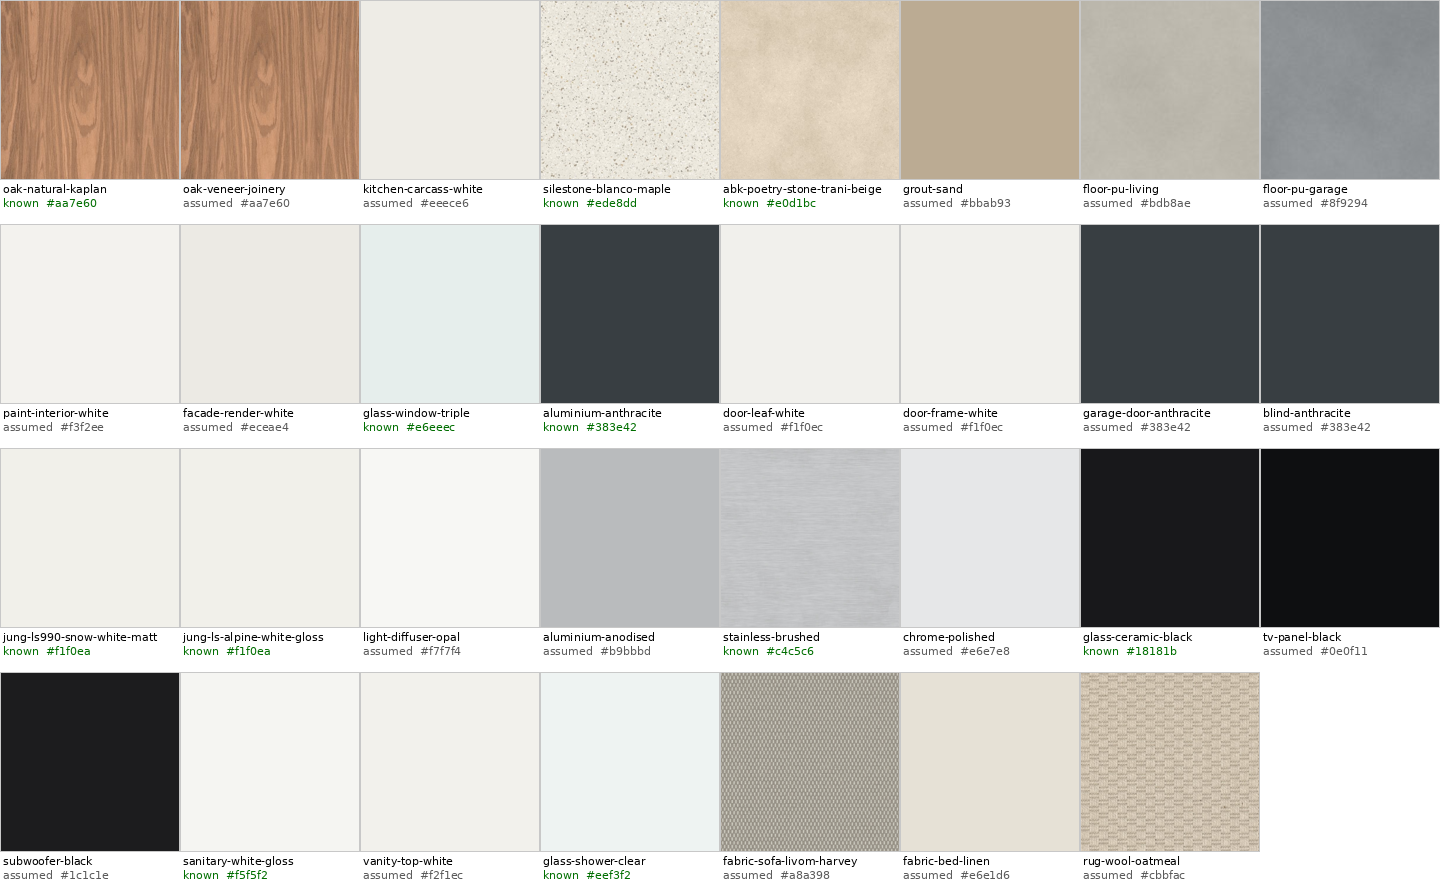
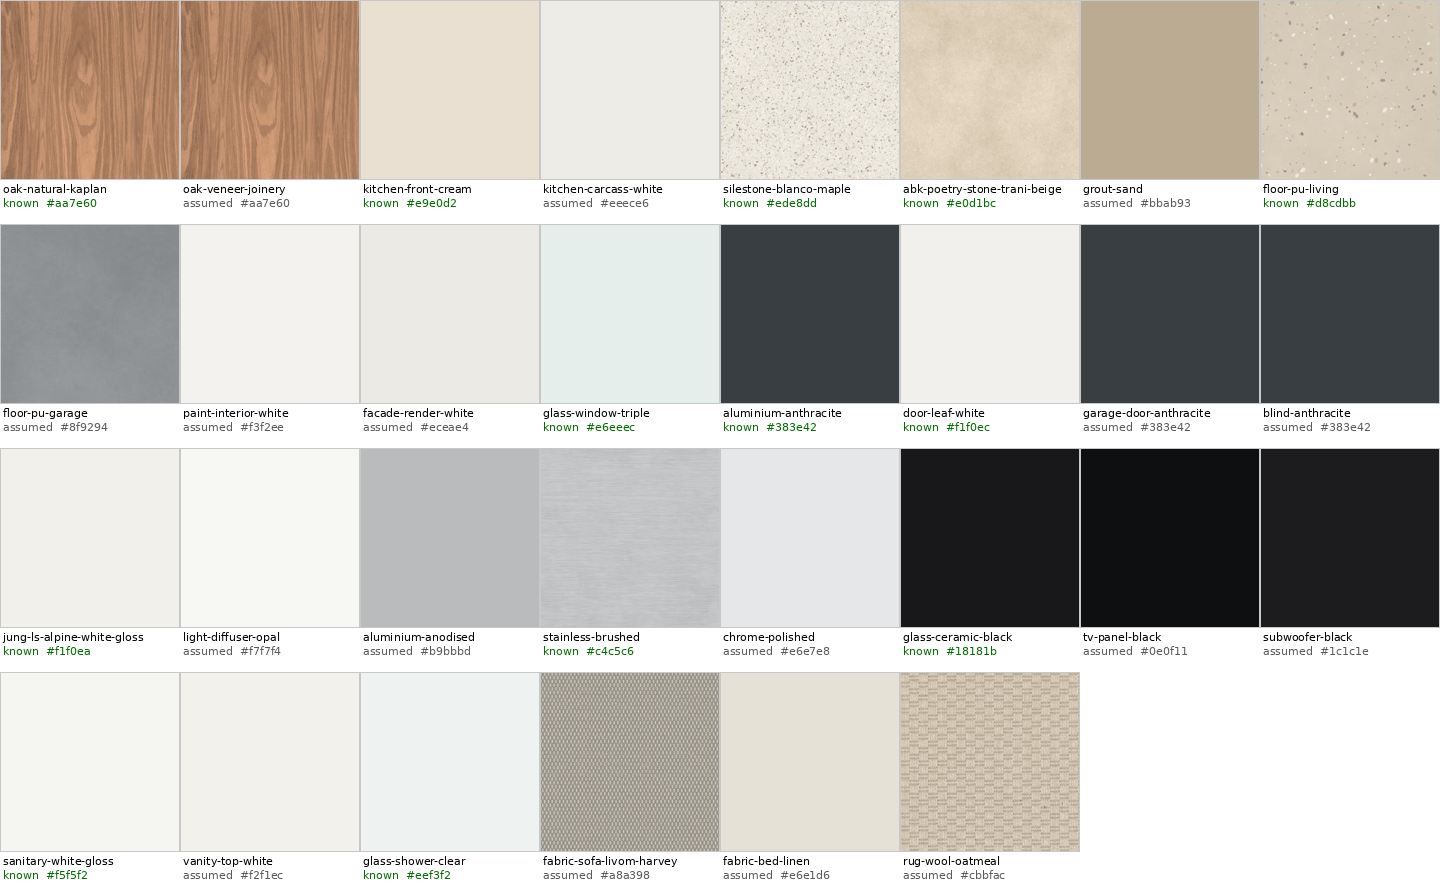
Materials: apply Petr's answers (fronts, PU floor, Silestone, frames, doors, Jung)
Petr in Cody's chat, 2026-11-12:
"kitchen front are some sort of cream color (white-ish)
pu floor is light beige with plastic chips (not sure what color chips yet, your choice)
cheaper basic silestone (idk which one that is), or just choose one
window frames all antracite aluminium
yes doors are white and frames are "invisible" (flush and plastered over). The hinged doors are "reverse" door (so the sit flush with hallway wall but open inward into rooms
sorry, gloss white jung electrical fixture, the matt white note is obsolete (document it as such)"

- kitchen-front-cream (new, known; RAL 9001 shade assumed) replaces the
  oak-veneer assumption on kitchen fronts; oak-veneer-joinery keeps the vanity.
- floor-pu-living: light beige with sparse colour chips (known; chip colours
  ours), new procedural texture, 1 m repeat. Garage stays a grey assumption.
- silestone-blanco-maple: standard polished finish, Petr's call.
- aluminium-anthracite: all window frames inside and out.
- door-leaf-white known; door-frame-white retired (flush, plastered frames).
  Reverse-mounted hinged doors recorded as open: in OpeningsSpec.md, no
  geometry change here.
- jung-ls-alpine-white-gloss covers switches, sockets, sensors;
  jung-ls990-snow-white-matt retired; PlanNotes.md marks the WWM rule obsolete.
- Swatch sheet now built by scripts/build_material_textures.py.

Requested-by: Cody

diff --git a/scripts/build_material_textures.py b/scripts/build_material_textures.py
@@ -235,6 +235,28 @@ def pu_floor(mid: str, hx: str, seed: int) -> None:
     license_txt(mid, CC0_PROC + "\nPoured polyurethane floor, colour assumed. One repeat = 2.0 m.")
 
 
+def pu_chips() -> None:
+    """House floor: light beige PU with sparse decorative flakes (Petr, 2026-11-12)."""
+    mid, n = "floor-pu-living", 1024  # one repeat = 1.0 m, 1 mm per pixel
+    clouds = fbm(n, 61, 2.8, lo=1)
+    fine = fbm(n, 62, 0.4, lo=60)
+    img = hex_rgb("#d8cdbb") + clouds[..., None] * 3.0 + fine[..., None] * 1.0
+    # Flat irregular flakes, ~2-8 mm, sparse; colours are our choice (Petr left it open).
+    chips = [
+        ("#c4b297", 1500, 1.0, 4.0, 63),
+        ("#9a948b", 700, 1.0, 3.6, 64),
+        ("#f3efe6", 1000, 1.0, 4.0, 65),
+        ("#8b7d6b", 250, 1.0, 3.0, 66),
+    ]
+    for hx, count, rmin, rmax, seed in chips:
+        m, _ = specks(n, seed, count, rmin, rmax, elong=1.7)
+        img = img * (1 - m[..., None] * 0.85) + hex_rgb(hx) * (m[..., None] * 0.85)
+    save(mid, "color", img, n)
+    rough = 0.35 * 255 + clouds * 5 + fine * 2  # satin clear coat over the chips
+    save(mid, "roughness", gray3(rough), n, gray=True)
+    license_txt(mid, CC0_PROC + "\nLight beige poured PU with colour chips; chip colours our choice. One repeat = 1.0 m.")
+
+
 def plaster() -> None:
     a = "Plaster001"
     save("paint-interior-white", "normal", flatten_normal(ambientcg(a, "NormalGL"), 0.35), 1024)
@@ -282,7 +304,7 @@ SETS = {
     "oak-natural-kaplan": oak,
     "silestone-blanco-maple": silestone,
     "abk-poetry-stone-trani-beige": trani,
-    "floor-pu-living": lambda: pu_floor("floor-pu-living", "#bdb8ae", 41),
+    "floor-pu-living": pu_chips,
     "floor-pu-garage": lambda: pu_floor("floor-pu-garage", "#8f9294", 51),
     "paint-interior-white": plaster,
     "fabric-sofa-livom-harvey": fabric,
@@ -291,11 +313,45 @@ SETS = {
 }
 
 
+def swatches() -> None:
+    """docs/previews/materials/swatches.png: a 0.3 m crop of each colour map, or base_color."""
+    import yaml
+    from PIL import ImageDraw, ImageFont
+
+    cat = yaml.safe_load((ROOT / "inputs" / "materials" / "catalogue.yaml").read_text(encoding="utf-8"))
+    s, cols, th = 180, 8, 44
+    rows = (len(cat) + cols - 1) // cols
+    img = Image.new("RGB", (cols * s, rows * (s + th)), "white")
+    d = ImageDraw.Draw(img)
+    try:
+        font = ImageFont.truetype("/usr/share/fonts/truetype/dejavu/DejaVuSans.ttf", 11)
+    except OSError:
+        font = ImageFont.load_default()
+    for k, m in enumerate(cat):
+        x, y = (k % cols) * s, (k // cols) * (s + th)
+        c = (m.get("maps") or {}).get("color")
+        if c:
+            t = Image.open(ROOT / c).convert("RGB")
+            cw = int(t.size[0] * min(1, 0.3 / m["tile_size_m"][0]))
+            t = t.crop((0, 0, cw, cw)).resize((s, s))
+        else:
+            t = Image.new("RGB", (s, s), tuple(int(v) for v in hex_rgb(m["base_color"])))
+        img.paste(t, (x, y))
+        d.rectangle([x, y, x + s - 1, y + s - 1], outline=(200, 200, 200))
+        d.text((x + 3, y + s + 2), m["id"], fill="black", font=font)
+        colour = (0, 110, 0) if m["status"] == "known" else (90, 90, 90)
+        d.text((x + 3, y + s + 16), f"{m['status']}  {m['base_color']}", fill=colour, font=font)
+    out = ROOT / "docs" / "previews" / "materials"
+    out.mkdir(parents=True, exist_ok=True)
+    img.save(out / "swatches.png", optimize=True)
+
+
 def main(argv: list[str]) -> None:
     names = argv or list(SETS)
     for name in names:
         print("building", name)
         SETS[name]()
+    swatches()
 
 
 if __name__ == "__main__":

diff --git a/tests/test_materials_catalogue.py b/tests/test_materials_catalogue.py
@@ -9,7 +9,7 @@ def test_catalogue_is_valid():
 
 def test_specific_selectors_win():
     cat = load_catalogue()
-    assert resolve(cat, "cabinet", "SF-I600a-FRONT") == ["oak-veneer-joinery"]
+    assert resolve(cat, "cabinet", "SF-I600a-FRONT") == ["kitchen-front-cream"]
     assert resolve(cat, "cabinet", "KR-ISL-LEG-SF-E700-S-F") == ["stainless-brushed"]
     assert resolve(cat, "cabinet", "SF-DN-BODY") == ["oak-natural-kaplan"]
     assert resolve(cat, "cabinet", "SF-I600a-BOTTOM") == ["kitchen-carcass-white"]

diff --git a/docs/materials/README.md b/docs/materials/README.md
@@ -8,7 +8,7 @@ The realistic mode does not reuse the solid-mode colours. Solid colours are diag
 
 - **Materials are keyed by id, never baked into geometry.** The models keep emitting meshes named `<label>__<id>__` (e.g. `cabinet__KR-ISL-END-N__`) or just `<label>`. Each catalogue entry's `applies_to.selectors` says which meshes it covers: `{label}`, `{label, ids}` or `{label, id_pattern}` (a regex searched in the id). The most specific selector wins (ids, then pattern, then label). Every label the three models emit has exactly one label-only selector, so no mesh is left without a material; `python -m blueprints.materials` checks that against the committed GLBs.
 - **Real 3D fixtures later.** A glTF for a fixture (a tap, a light, a chair) names its material slots with catalogue ids (`chrome-polished`, `oak-natural-kaplan`, …). The viewer swaps each slot for the catalogue material with that id, so the fixture picks up the same finish and a later finish change is one catalogue edit. A slot with an unknown name keeps the glTF's own material. Nothing here assumes boxes.
-- **Entries with `pending`** describe surfaces the models do not build yet (room floors, ceilings, door frames, window frames, blinds, facade). They are in the catalogue now so the finish decision is written down once.
+- **Entries with `pending`** describe surfaces the models do not build yet (room floors, ceilings, window frames, blinds, facade). They are in the catalogue now so the finish decision is written down once.
 - **Fields.** The contract is the comment at the top of `catalogue.yaml`. `base_color` is the albedo whenever there is no colour map (several sets ship only normal/roughness so plain painted surfaces stay even). `tile_size_m` is the real size of one texture repeat. `rotation_deg` is given where direction matters (oak grain, brushed steel): at 0 the grain runs along texture V.
 
 ## Textures
@@ -22,7 +22,8 @@ They are either CC0 scans (Poly Haven, ambientCG) re-tinted to the product's mea
 | `oak-natural-kaplan` | Poly Haven *Oak Veneer 01*, tinted to Kaplan's D 02 swatch | 1.83 m |
 | `silestone-blanco-maple` | procedural speckled quartz | 1.0 m |
 | `abk-poetry-stone-trani-beige` | procedural limestone | 0.6 m |
-| `floor-pu-living`, `floor-pu-garage` | procedural poured floor | 2.0 m |
+| `floor-pu-living` | procedural light-beige PU with sparse colour chips | 1.0 m |
+| `floor-pu-garage` | procedural plain poured floor | 2.0 m |
 | `paint-interior-white` | ambientCG *Plaster001* normal/roughness only | 2.0 m |
 | `fabric-sofa-livom-harvey` | ambientCG *Fabric062*, tinted | 0.4 m |
 | `rug-wool-oatmeal` | ambientCG *Carpet014*, tinted | 0.5 m |
@@ -41,12 +42,14 @@ Swatches (0.3 m crops of each colour map, or the flat `base_color`): [`docs/prev
 | Material | Colour | Rough / metal | Textures | Viewer selectors | Sources |
 | --- | --- | --- | --- | --- | --- |
 | **Natural oak, matt lacquer (Kaplan 1934, Přírodní D 02)** `oak-natural-kaplan` | `#aa7e60` | 0.45 / 0.0 | color, normal, roughness | `oak`; `cabinet` /-BODY$/; `cabinet` SF-LB, SF-TC, SF-DH | [1](https://www.kaplan1934.cz/produkty/stoly/stul-gatta) [2](https://www.kaplan1934.cz/kolekce-gatta/) [3](https://polyhaven.com/a/oak_veneer_01) |
+| **Kitchen fronts, warm cream matt (about RAL 9001)** `kitchen-front-cream` | `#e9e0d2` | 0.35 / 0.0 | none | `cabinet` /-(FRONT\|D[0-9]+\|END-[NSEW]\|PLINTH-[NSEW])$/; `appliance` EA-SBD6ECX | [1](https://github.com/pteasima/Blueprints/blob/main/docs/design/kitchen-cabinets.md) |
 | **Silestone Blanco Maple, 20 mm** `silestone-blanco-maple` | `#ede8dd` | 0.12 / 0.0 | color, roughness | `worktop` | [1](https://www.cosentino.com/en-ie/colours/silestone/blanco-maple) [2](https://www.stoneone.co.uk/product/silestone-blanco-maple/) [3](https://in2stone.co.uk/products/quartz/silestone-blanco-maple/) |
 | **ABK Poetry Stone Trani Beige, natural, rectified, 8.5 mm** `abk-poetry-stone-trani-beige` | `#e0d1bc` | 0.62 / 0.0 | color, normal, roughness | `floor_tile`; `wall_tile`; pending | [1](https://www.abkgroup.it/it/abk/area-download/minimali/poetry-stone/trani-beige/pf60010540-v100/) [2](https://www.ceramishop.it/abk-poetry-stone-trani-beige-nat-60x60-pf60010540.html) |
+| **Poured polyurethane floor, light beige with colour chips** `floor-pu-living` | `#d8cdbb` | 0.35 / 0.0 | color, roughness | pending | [1](https://github.com/pteasima/Blueprints/blob/main/scripts/export_podlaha_eps.py) |
 | **Window glass, insulated triple glazing** `glass-window-triple` | `#e6eeec` | 0.02 / 0.0 | none | `glazing` | [1](https://github.com/pteasima/Blueprints/blob/main/docs/design/ground-floor.md) |
 | **Aluminium window and door frames, anthracite (RAL 7016)** `aluminium-anthracite` | `#383e42` | 0.45 / 0.0 | none | `door` D-OP32, D-OP39a; pending | [1](https://github.com/pteasima/Blueprints/blob/main/docs/design/ground-floor.md) |
-| **Jung LS 990, snow white matt (WWM)** `jung-ls990-snow-white-matt` | `#f1f0ea` | 0.55 / 0.0 | none | `switch`; `sensor`; `outlet` | [1](https://www.jung-group.com/es-ES/p/Tecla-simple-blanco-alpino-mate/LS-990-WWM) [2](https://www.jung-group.com/de-DE/Produkte/Schalterprogramme/LS-990-aus-Kunststoff/) [3](https://www.jungstore.nl/designseries/ls-990/ls-990-sneeuwwit-mat/) |
-| **Jung LS socket insert, alpine white gloss (LS 1520 KI WW)** `jung-ls-alpine-white-gloss` | `#f1f0ea` | 0.2 / 0.0 | none | pending | [1](https://www.elanto24.de/Jung-LS1520KIWW-SCHUKO-Steckdose-Safety-Serie-LS-alpinweiss) |
+| **Interior door leaves, white** `door-leaf-white` | `#f1f0ec` | 0.4 / 0.0 | none | `door` | [1](https://github.com/pteasima/Blueprints/blob/main/docs/OpeningsSpec.md) |
+| **Jung LS, alpine white gloss (WW)** `jung-ls-alpine-white-gloss` | `#f1f0ea` | 0.15 / 0.0 | none | `switch`; `sensor`; `outlet` | [1](https://www.elanto24.de/Jung-LS1520KIWW-SCHUKO-Steckdose-Safety-Serie-LS-alpinweiss) [2](https://www.jung-group.com/de-DE/Produkte/Schalterprogramme/LS-990-aus-Kunststoff/) |
 | **Brushed stainless steel** `stainless-brushed` | `#c4c5c6` | 0.32 / 1.0 | color, normal, roughness | `sink`; `drain`; `profile`; `appliance`; `cabinet` /-LEG-/ | [1](https://www.teka.com/cs-cz/produkt/be-linea-rs15-71-40_115000004/) [2](https://www.teka.com/cs-cz/produkt/be-linea-rs15-18-40-ss_115000010/) [3](https://www.spotrebice-kuchyne.cz/p/25492/chladnicka-whirlpool-wq9i-mo2l-ef) [4](https://ambientcg.com/view?id=Metal009) |
 | **Black glass-ceramic (Miele KM 8665 FL hob)** `glass-ceramic-black` | `#18181b` | 0.06 / 0.0 | none | `hob` | [1](https://www.miele.cz/product/12911610/indukcni-varna-deska-km-8665-fl) |
 | **Glossy white sanitaryware** `sanitary-white-gloss` | `#f5f5f2` | 0.08 / 0.0 | none | `fixture` | [1](https://www.sanitino.sk/vane-prislusenstvo/cersanit) |
@@ -56,15 +59,12 @@ Swatches (0.3 m crops of each colour map, or the flat `base_color`): [`docs/prev
 
 | Material | Colour | Rough / metal | Textures | Viewer selectors | Sources |
 | --- | --- | --- | --- | --- | --- |
-| **Oak veneer joinery (kitchen fronts, vanity), assumed to match** `oak-veneer-joinery` | `#aa7e60` | 0.45 / 0.0 | color, normal, roughness | `cabinet` /-(FRONT\|D[0-9]+\|END-[NSEW]\|PLINTH-[NSEW])$/; `appliance` EA-SBD6ECX; `vanity`; `furniture` | [1](https://polyhaven.com/a/oak_veneer_01) |
+| **Oak veneer joinery (bathroom vanity, loose furniture), assumed** `oak-veneer-joinery` | `#aa7e60` | 0.45 / 0.0 | color, normal, roughness | `vanity`; `furniture` | [1](https://polyhaven.com/a/oak_veneer_01) |
 | **White melamine carcass (kitchen interiors)** `kitchen-carcass-white` | `#eeece6` | 0.5 / 0.0 | none | `cabinet` | [1](https://github.com/pteasima/Blueprints/blob/main/docs/design/kitchen-cabinets.md) |
 | **Tile grout, sand beige, 2 mm** `grout-sand` | `#bbab93` | 0.85 / 0.0 | none | `grout` | none |
-| **Poured polyurethane floor, warm light grey** `floor-pu-living` | `#bdb8ae` | 0.38 / 0.0 | color, roughness | pending | [1](https://github.com/pteasima/Blueprints/blob/main/scripts/export_podlaha_eps.py) |
 | **Poured polyurethane floor, garage grey** `floor-pu-garage` | `#8f9294` | 0.4 / 0.0 | color, roughness | pending | [1](https://github.com/pteasima/Blueprints/blob/main/scripts/export_podlaha_eps.py) |
 | **Interior plaster, white paint** `paint-interior-white` | `#f3f2ee` | 0.9 / 0.0 | normal, roughness | `masonry`; `prewall`; pending | [1](https://ambientcg.com/view?id=Plaster001) |
 | **Exterior render, off-white** `facade-render-white` | `#eceae4` | 0.95 / 0.0 | normal | pending | none |
-| **Interior door leaves, white lacquer** `door-leaf-white` | `#f1f0ec` | 0.4 / 0.0 | none | `door` | none |
-| **Interior door frames, white lacquer** `door-frame-white` | `#f1f0ec` | 0.4 / 0.0 | none | pending | none |
 | **Sectional garage doors, anthracite** `garage-door-anthracite` | `#383e42` | 0.5 / 0.0 | none | `door` D-OP49, D-OP50 | none |
 | **Exterior blinds and blind motors, anthracite** `blind-anthracite` | `#383e42` | 0.45 / 0.0 | none | `actuator`; pending | none |
 | **Light fittings, white housing with opal diffuser** `light-diffuser-opal` | `#f7f7f4` | 0.3 / 0.0 | none | `light` | [1](https://github.com/pteasima/Blueprints/blob/main/docs/electrical/PlanNotes.md) |
@@ -81,16 +81,33 @@ Swatches (0.3 m crops of each colour map, or the flat `base_color`): [`docs/prev
 
 Per-material reasoning and confidence are in each entry's `notes` in the catalogue.
 
+## Decisions (Petr, 2026-11-12)
+
+Petr answered the first round of open questions on 2026-11-12. The catalogue entries quote him.
+
+- **Kitchen fronts are cream** ("some sort of cream color (white-ish)"): `kitchen-front-cream`. The exact shade (RAL 9001) and the smooth matt lacquer or laminate are still our assumption. The oak stays on the Kaplan furniture and the dining run.
+- **House floor: light beige PU with plastic colour chips**, chip colours our choice: `floor-pu-living` (beige, warm grey, off-white and a few taupe flakes, sparse). The garage was not included in that answer and stays a plain grey assumption (`floor-pu-garage`).
+- **Silestone: the cheaper basic finish**, which is the standard polished finish (Suede costs extra).
+- **Window frames: anthracite aluminium everywhere, inside too** (`aluminium-anthracite`).
+- **Doors: white leaves, "invisible" frames** that are flush and plastered over, so there is no frame material.
+- **Hinged doors are reverse-mounted.** The leaf sits flush with the hallway wall face and opens inward into the room. This is a geometry fact. The model still centres most leaves in the wall (only OP11 and OP17 have a `LeafOffset` to the hallway face, [ground-floor.md](../design/ground-floor.md)). Moving every hinged leaf is a separate change. This PR only records it.
+- **Jung fixtures are gloss white** (LS 1520 KI WW, LS 990 WW, alpine white): `jung-ls-alpine-white-gloss` covers switches, sockets and sensors. The plan's general rule "everything matt white, code WWM" is **obsolete** (Petr, 2026-11-12: "the matt white note is obsolete"). [PlanNotes.md](../electrical/PlanNotes.md) keeps the original quote, marked obsolete.
+
+### Retired entries
+
+| Id | Why |
+| --- | --- |
+| `door-frame-white` | Door frames are flush and plastered over, so there is no visible frame to give a material. The wall paint (`paint-interior-white`) covers the reveal. |
+| `jung-ls990-snow-white-matt` | The WWM matt rule is obsolete. All Jung fixtures are alpine white gloss. |
+
 ## Open questions for Petr
 
-1. **Kitchen fronts.** Nothing says what the kitchen fronts are. Assumed lacquered natural oak veneer to match the dining run and the Kaplan table (`oak-veneer-joinery`). White matt or a colour would change the look the most of anything here.
-2. **Living-area floor colour.** The floor take-off says 4 mm PU screed for the dry rooms. Which colour? Assumed a warm light grey (about RAL 7044); garage a mid grey.
-3. **Silestone finish.** Polished (assumed) or Suede?
-4. **Sockets: gloss or matt?** The plan legend names the socket insert LS 1520 KI **WW** (alpine white gloss), the general rule says everything is **WWM** (snow white matt). Is the socket meant to be LS 1520 KI WWM?
-5. **Grout colour** for Trani Beige. Assumed a sand beige a shade darker than the tile.
-6. **Interior doors and frames.** Assumed flush white lacquer leaves and frames. Product or finish?
-7. **Window colour inside.** The legend says anthracite aluminium; assumed RAL 7016 on both faces. Some systems are white inside.
-8. **Sofa cover.** Which Livom fabric and colour (Cord, Bouclé, Linea, Fuego, Veluno)? Assumed a warm light grey weave.
-9. **Paffoni Tango finish.** Assumed chrome.
-10. **Rug, bed, vanity top, light housings, garage doors, blinds, facade**: all assumed (see the table). Any that are already chosen?
-11. **Other wet rooms** (WC 1.06, 1.19, bathrooms 1.09, 1.21): same Poetry Stone Trani Beige as 1.07 and 1.20?
+1. **Exact cream shade and finish of the kitchen fronts.** Assumed RAL 9001 in a smooth matt finish. Should it be whiter (RAL 9010), and lacquer or laminate?
+2. **PU chip colours.** We chose beige, warm grey, off-white and taupe. Change them when the supplier's chip blend is picked.
+3. **Garage floor.** Plain mid grey PU is assumed. Should it match the house's beige with chips?
+4. **Grout colour** for Trani Beige. Assumed a sand beige a shade darker than the tile.
+5. **Door leaf finish.** White is decided; satin lacquer is assumed.
+6. **Sofa cover.** Which Livom fabric and colour (Cord, Bouclé, Linea, Fuego, Veluno)? Assumed a warm light grey weave.
+7. **Paffoni Tango finish.** Assumed chrome.
+8. **Rug, bed, vanity top, light housings, garage doors, blinds, facade, kitchen carcass interior**: all assumed (see the table). Any that are already chosen?
+9. **Other wet rooms** (WC 1.06, 1.19, bathrooms 1.09, 1.21): same Poetry Stone Trani Beige as 1.07 and 1.20?

diff --git a/docs/OpeningsSpec.md b/docs/OpeningsSpec.md
@@ -102,3 +102,5 @@ The existing hinge sides, swing directions and viewer arrows are unchanged: the 
 - [ ] Sectional track: 4 sections and a 0.3 m bend are a simplified animation, not a chosen product.
 - [ ] OP27/OP29 height: assumed 2.5 m, sill 0 (same as OP28).
 - [ ] Pocket doors OP24, OP25, OP33: the leaf runs in the wall's centre plane; the DWG draws it parked on the living-room face. Which is the real pocket?
+
+`open:` Petr, 2026-11-12: "The hinged doors are 'reverse' door (so the sit flush with hallway wall but open inward into rooms)". Every hinged interior leaf should sit flush on the hallway face, as OP11 and OP17 already do with `LeafOffset`, and open into the room. The frames are flush and plastered over (no visible frame). The other hinged leaves are not moved yet; that is a separate geometry change.

diff --git a/docs/electrical/PlanNotes.md b/docs/electrical/PlanNotes.md
@@ -30,6 +30,8 @@ Finish, original:
 
 English: Unless noted, frames, sockets, and buttons are matt white, Jung code WWM, plain LS 990 covers, no labels and no indicator lamps.
 
+**Obsolete colour (Petr, 2026-11-12):** "sorry, gloss white jung electrical fixture, the matt white note is obsolete". Frames, sockets and buttons are Jung LS alpine white gloss (code WW: socket LS 1520 KI WW, covers LS 990 WW), not WWM. The rest of the note still applies: plain covers, no labels, no indicator lamps. The quote above is the plan's original wording. Material: `jung-ls-alpine-white-gloss` in [docs/materials/README.md](../materials/README.md).
+
 ## Cable codes (Soupis)
 
 These letters are the device column of the cable schedule, not printed as a block on the PDF.
